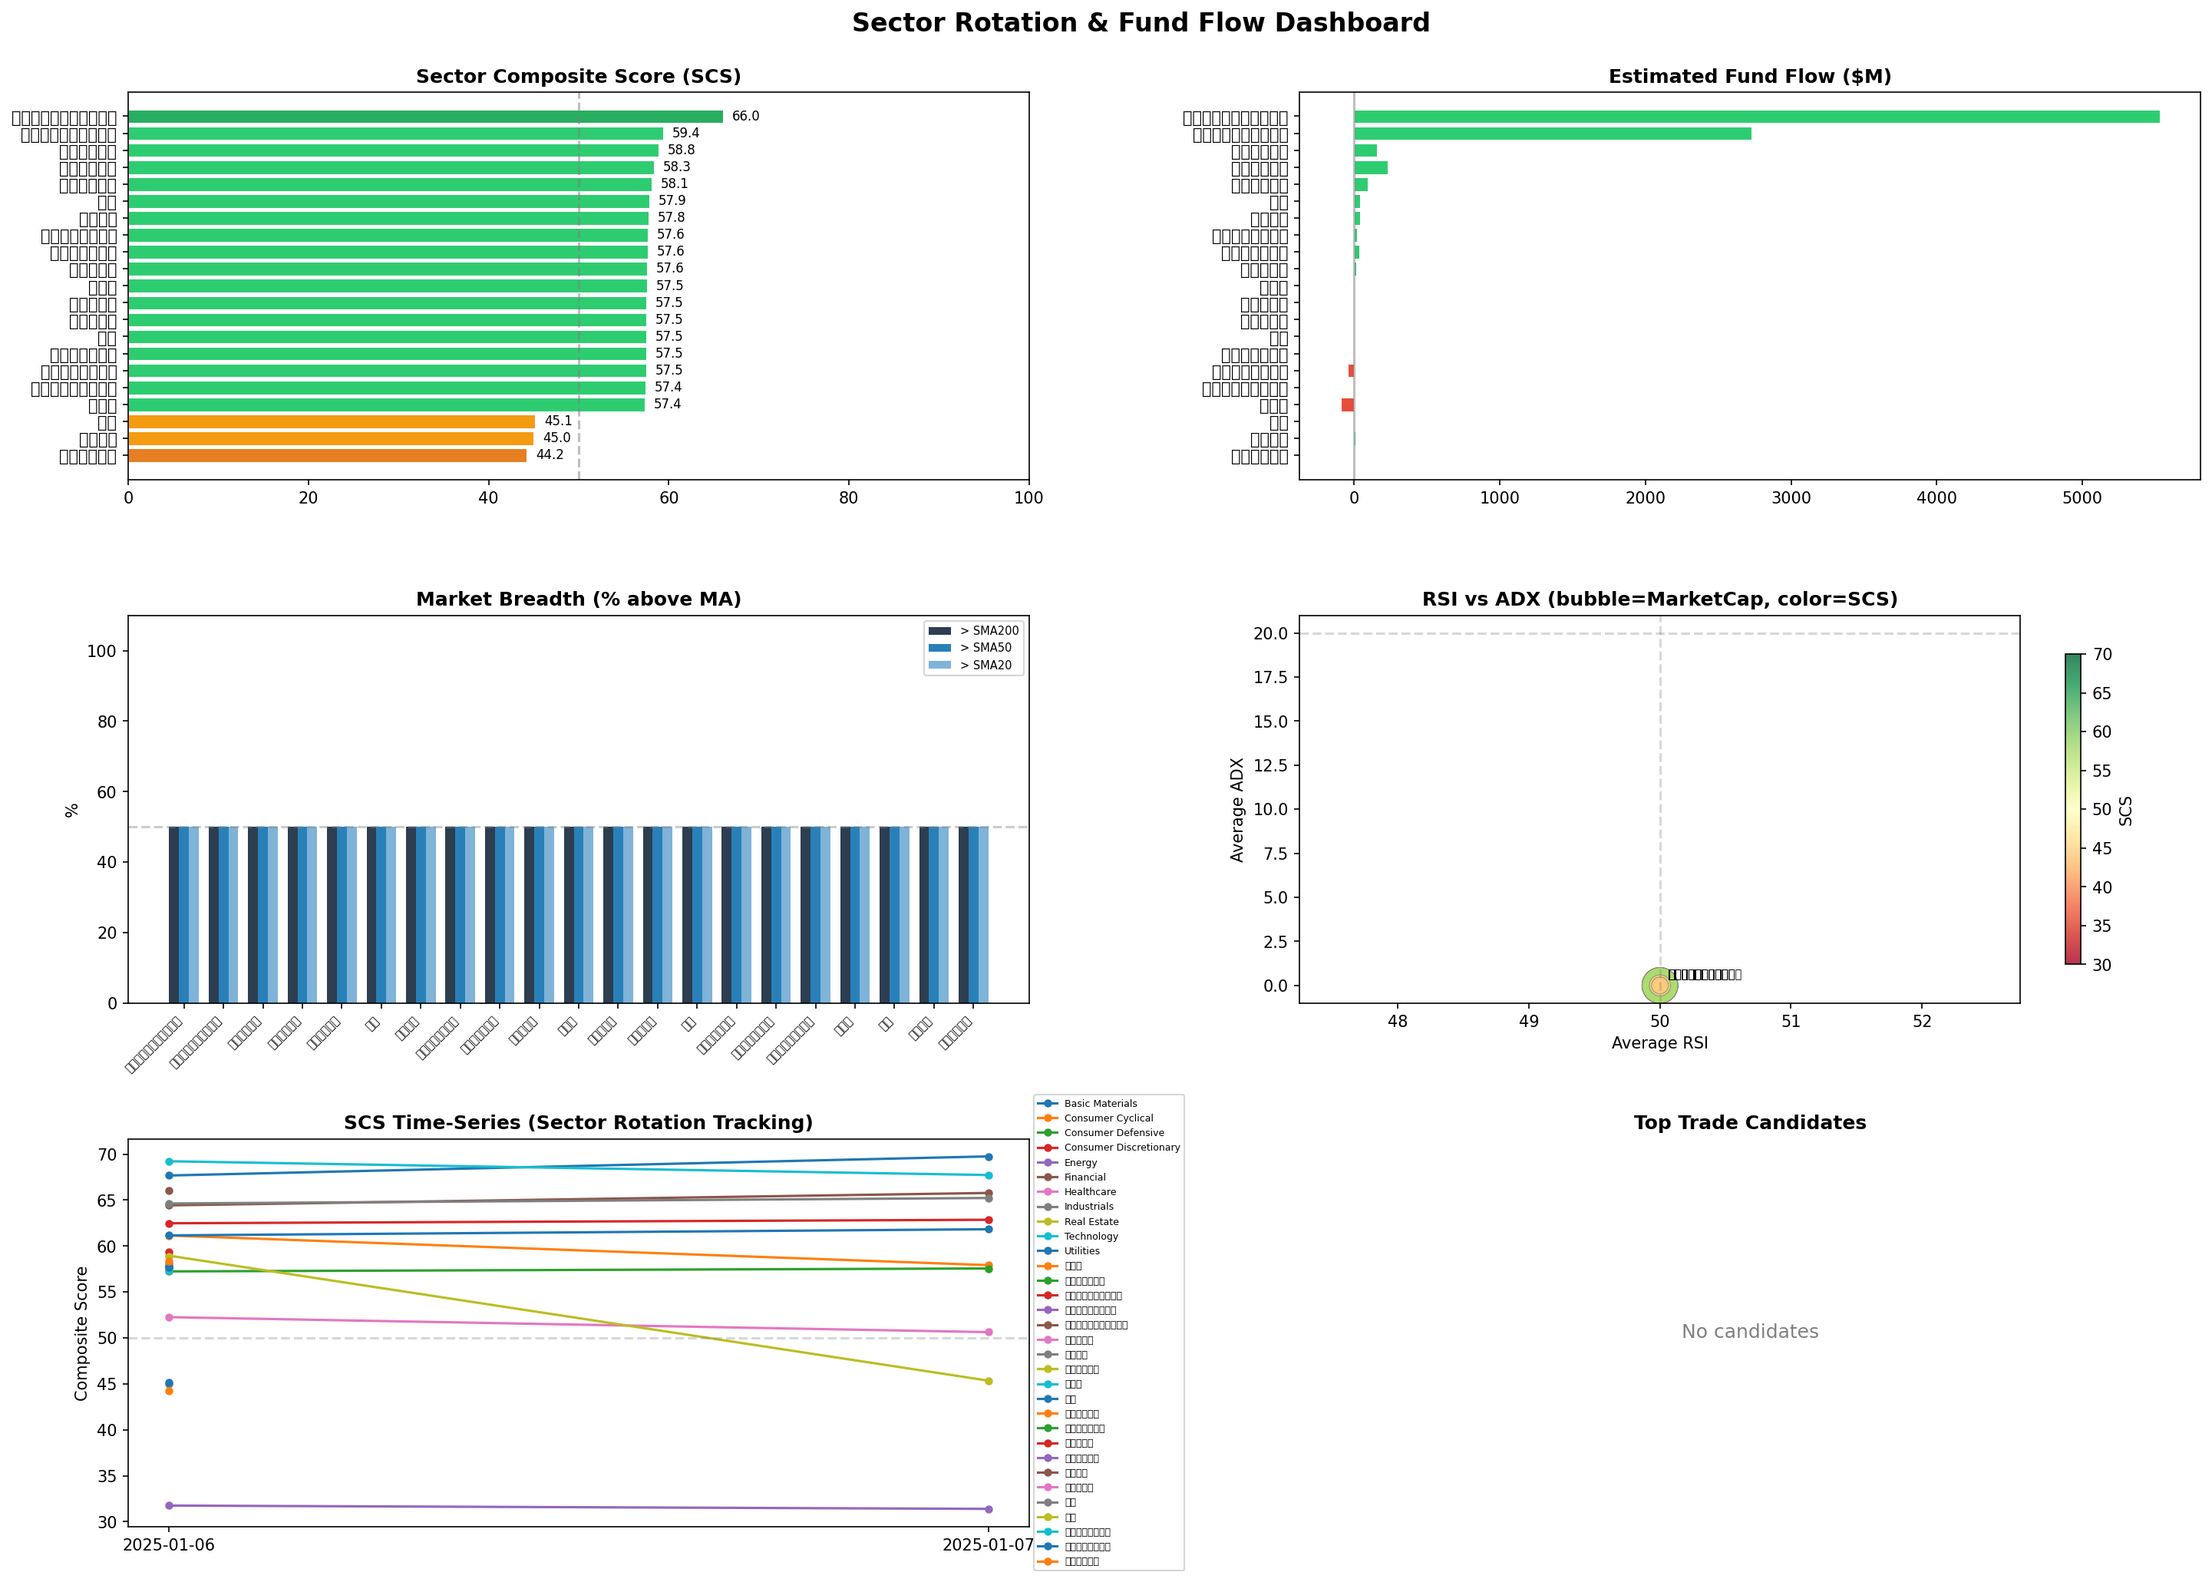
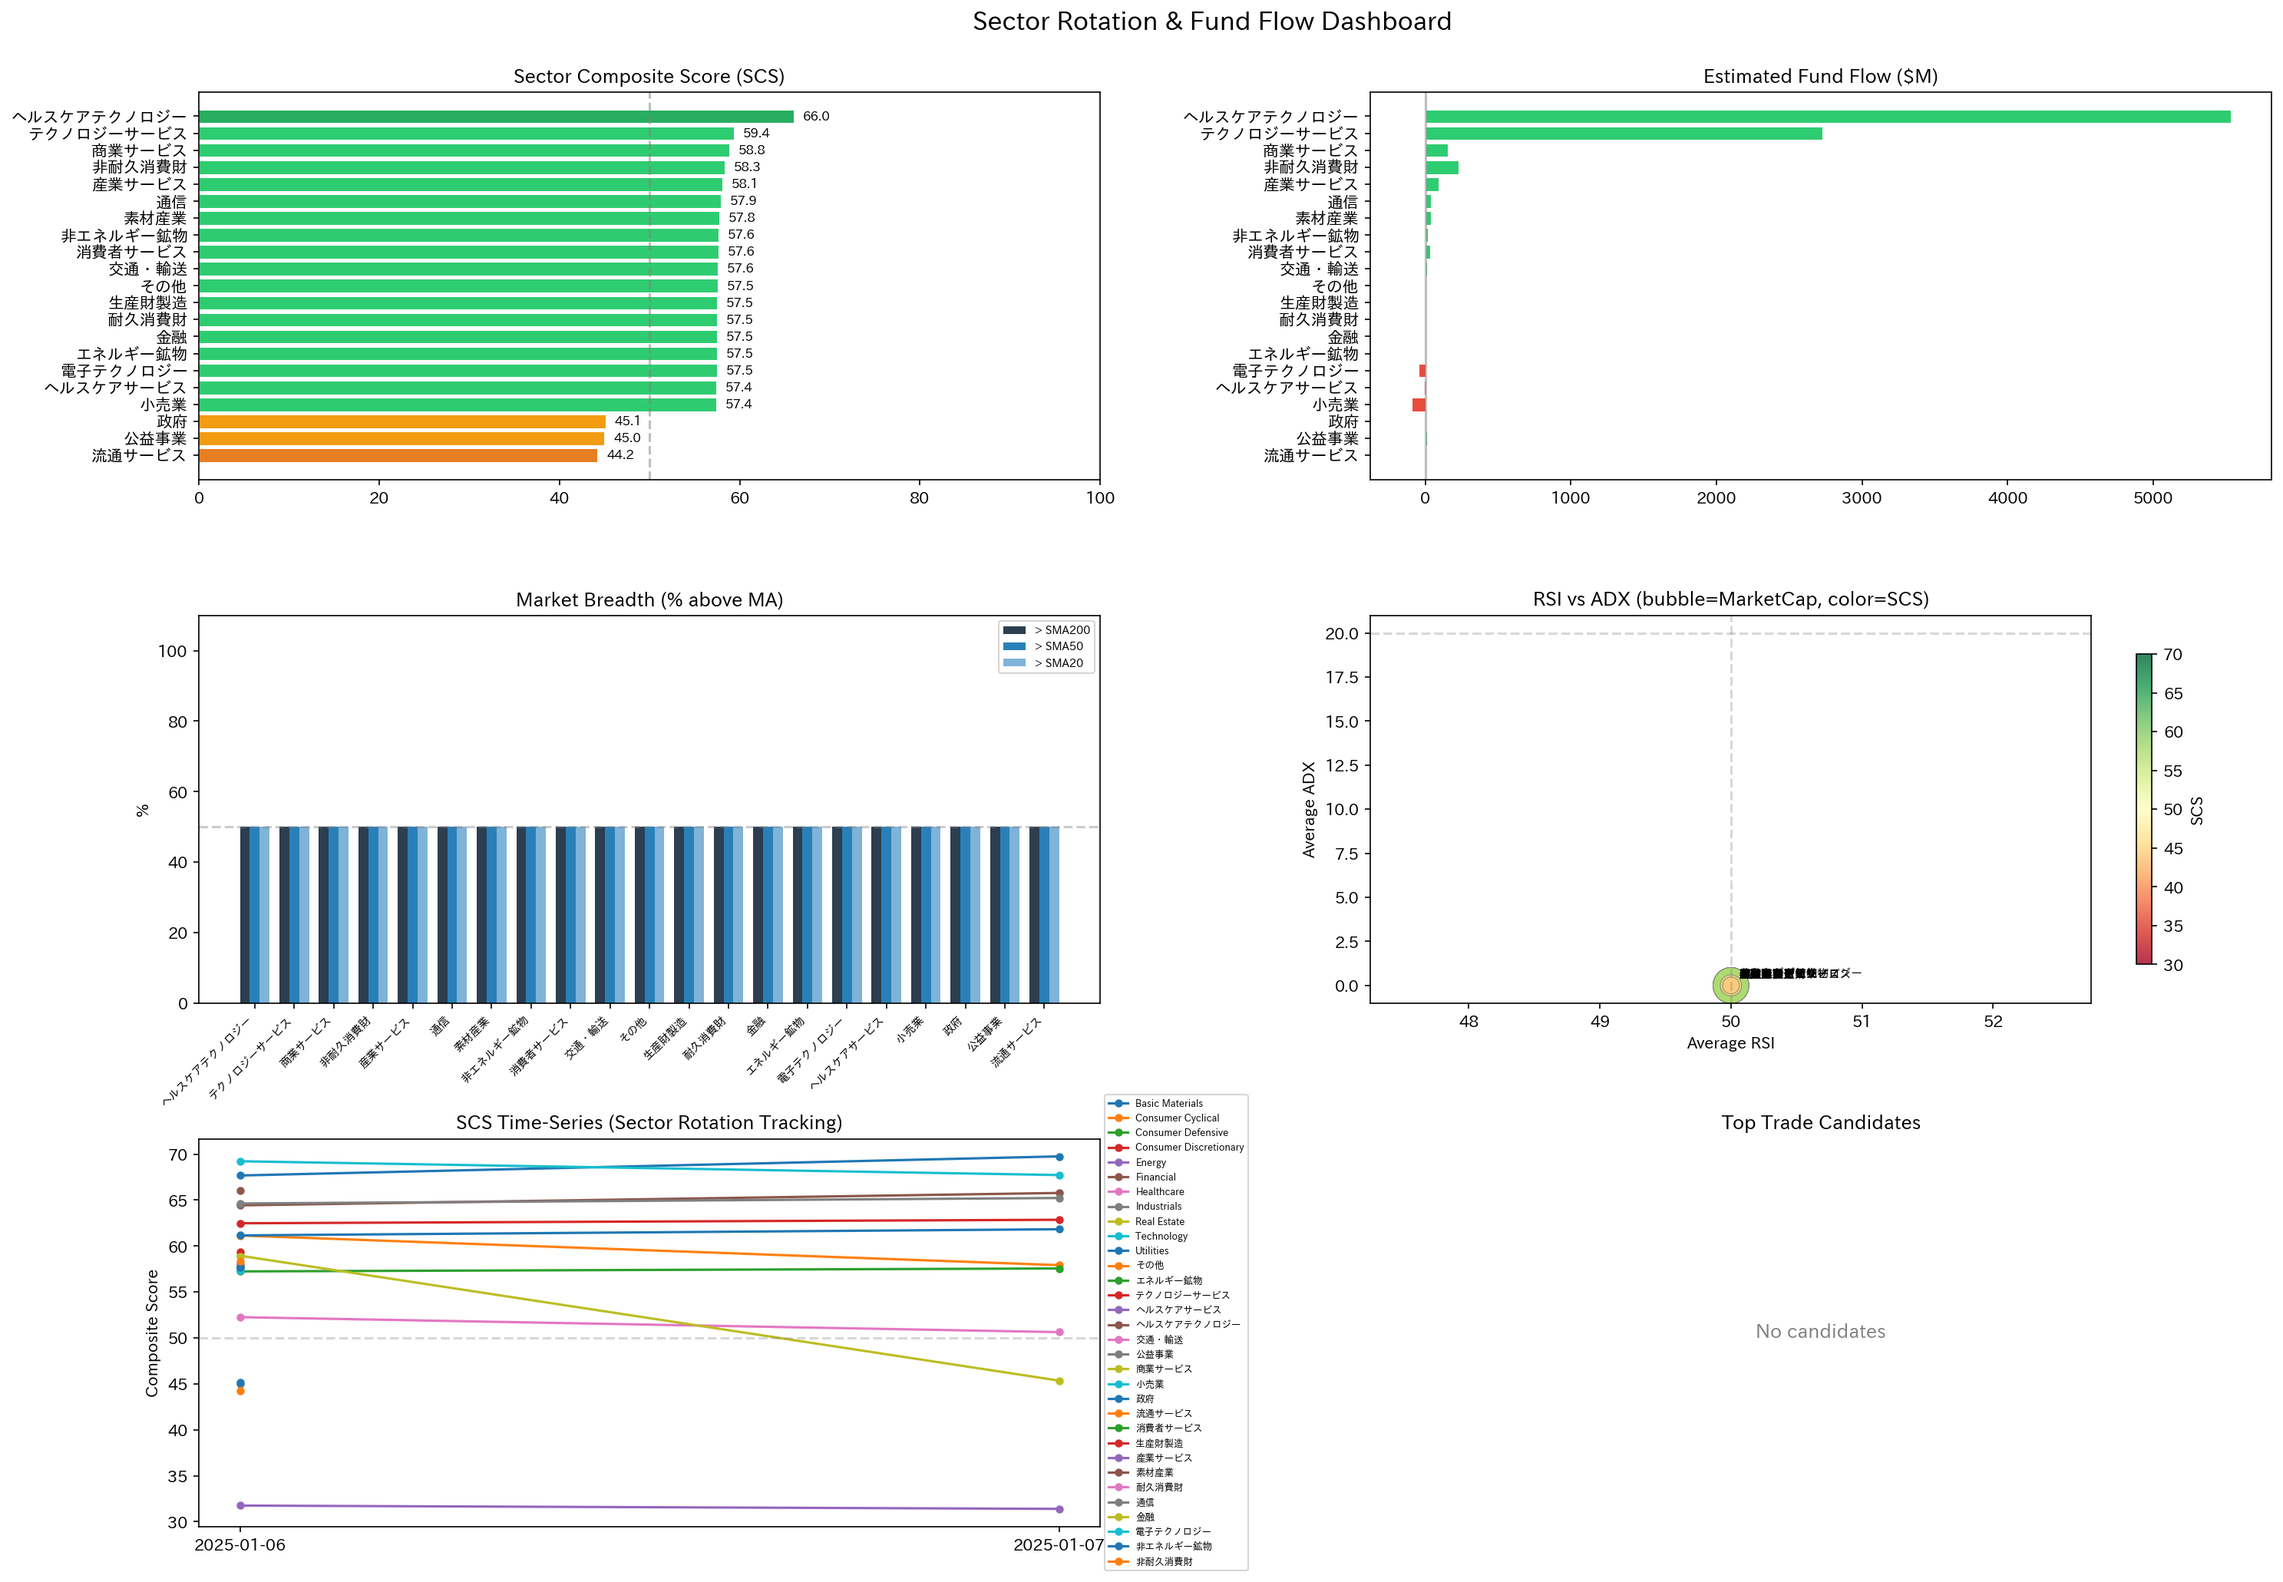
Fix Japanese text rendering in dashboard chart
- Add matplotlib-fontja import for CJK font support
- Regenerate sector_dashboard.png with readable Japanese labels

https://claude.ai/code/session_012j5HkUiPyKLfhtvkjNH37o

diff --git a/screener/sector_flow_analyzer.py b/screener/sector_flow_analyzer.py
@@ -616,6 +616,10 @@ def plot_dashboard(
         matplotlib.use("Agg")
         import matplotlib.pyplot as plt
         from matplotlib.patches import FancyBboxPatch
+        try:
+            import matplotlib_fontja  # noqa: F401 — 日本語フォント自動適用
+        except ImportError:
+            pass
     except ImportError:
         print("  [Warning] matplotlib not installed. Skipping chart generation.")
         return
